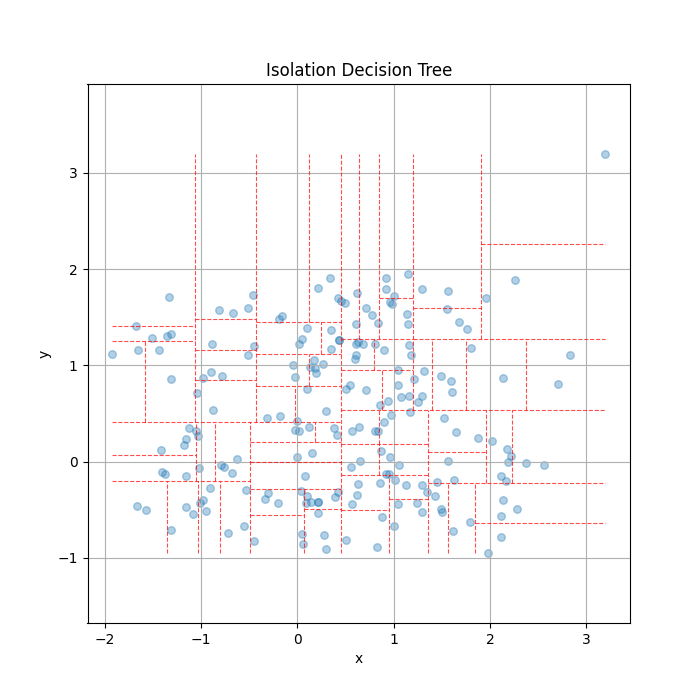
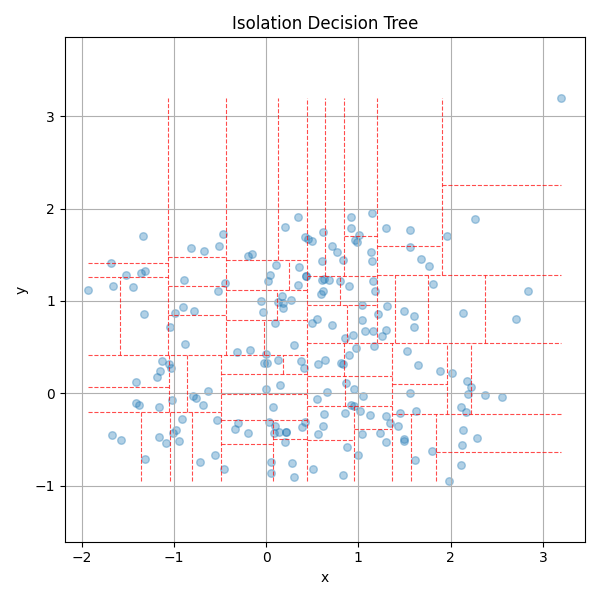
Version: 0.2.0 - 16-10-2025 - 15:13

diff --git a/free_decision_tree/free_decision_tree.py b/free_decision_tree/free_decision_tree.py
@@ -1041,7 +1041,7 @@ Output: {self.output}
             raise TypeError("The file does not contain a DecisionTree instance.")
         return obj
 
-    def plot_isolation(self, dims = None, isolated = None, figsize = (7, 7), max_depth = None, line_kwargs = None):
+    def plot_isolation(self, dims = None, isolated = None, figsize = (6, 6), max_depth = None, line_kwargs = None):
         """
         ...
         """
@@ -1130,4 +1130,5 @@ Output: {self.output}
         plt.title(f"Isolation Decision Tree")
         plt.axis("equal")
         plt.grid(True)
+        plt.tight_layout()
         plt.show()
